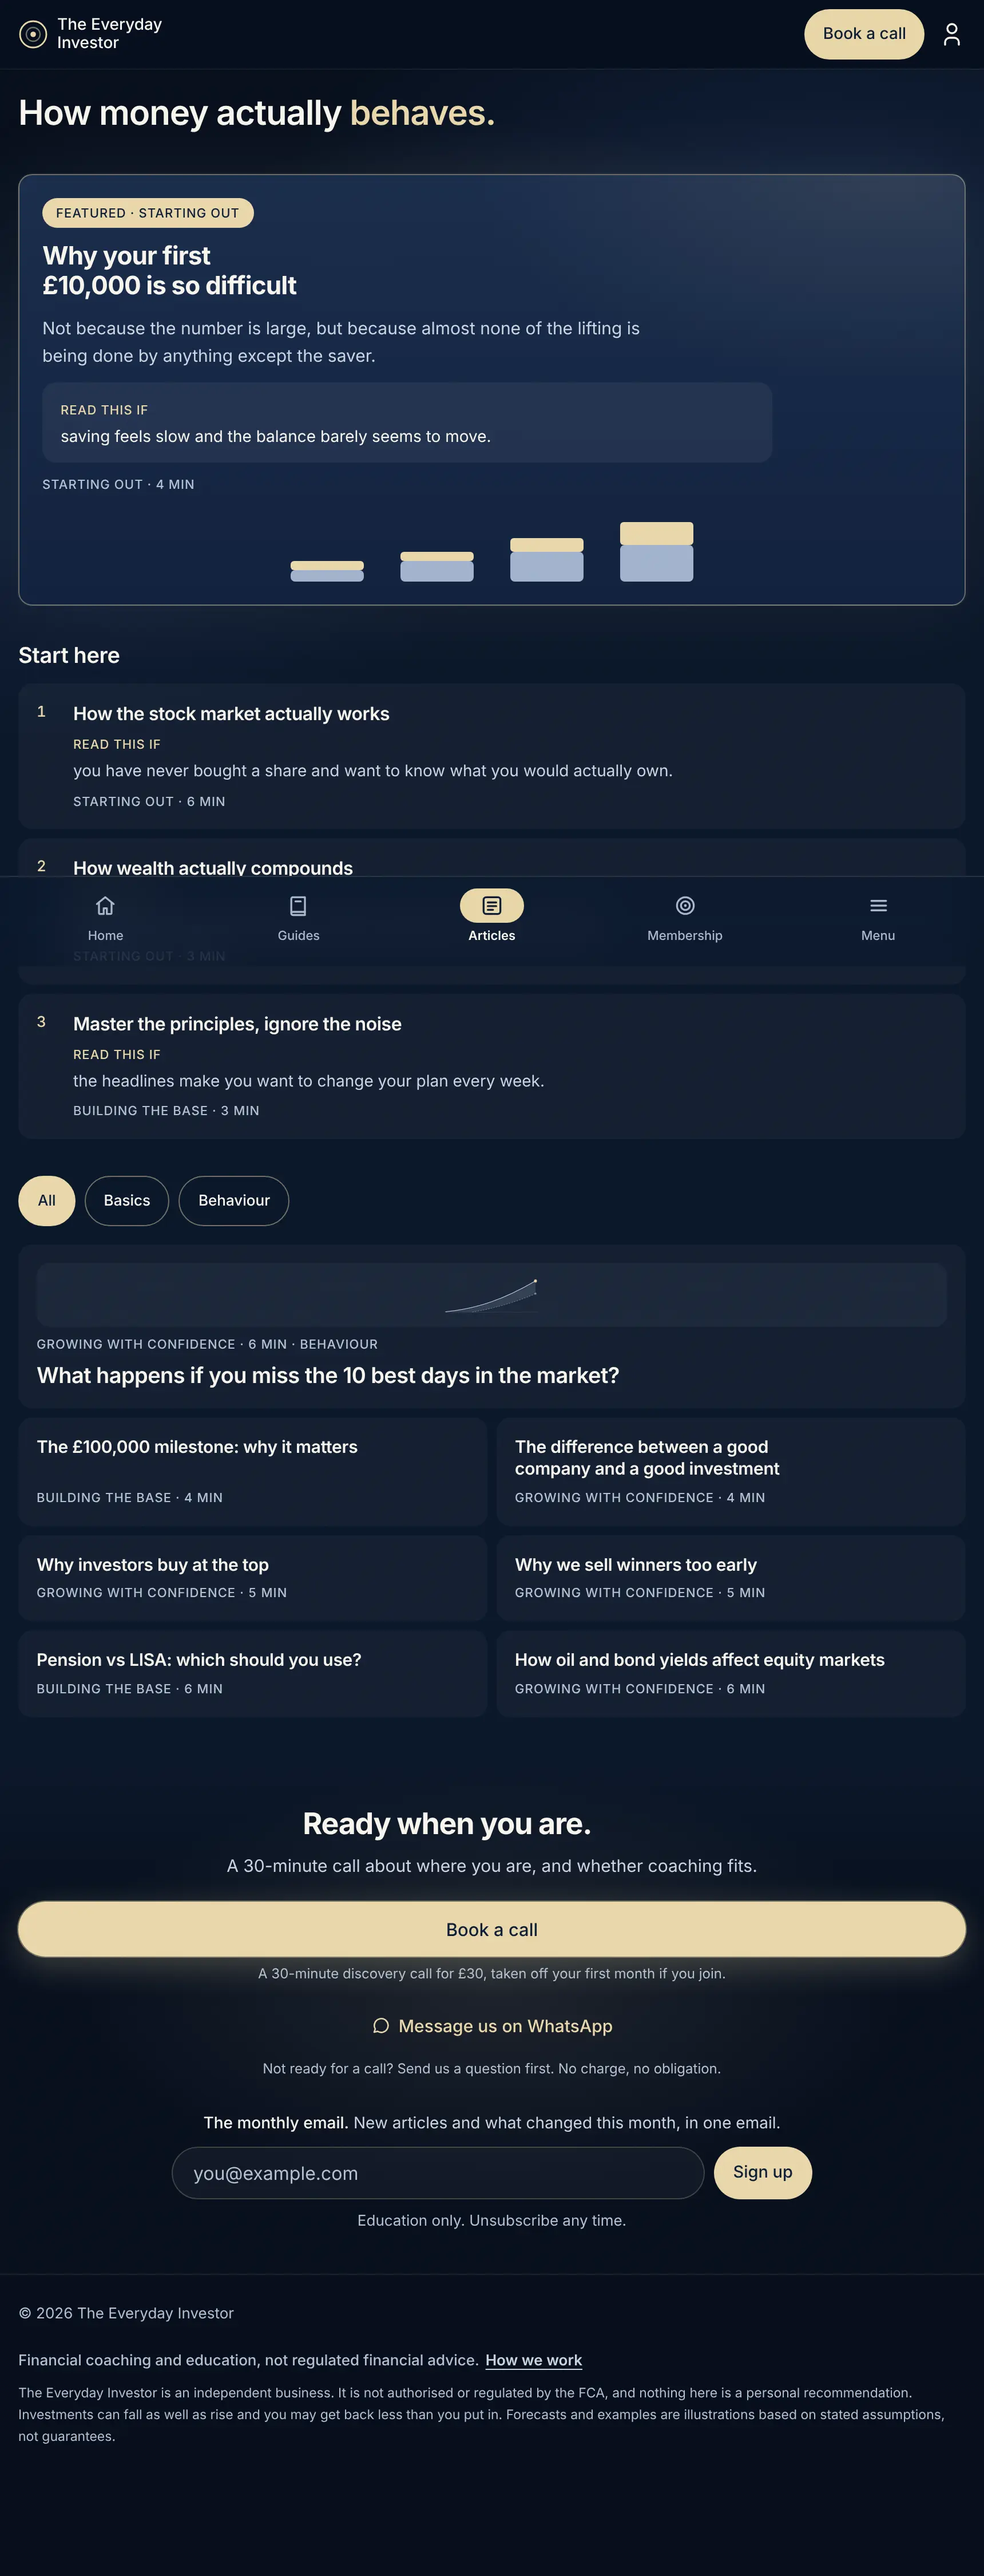
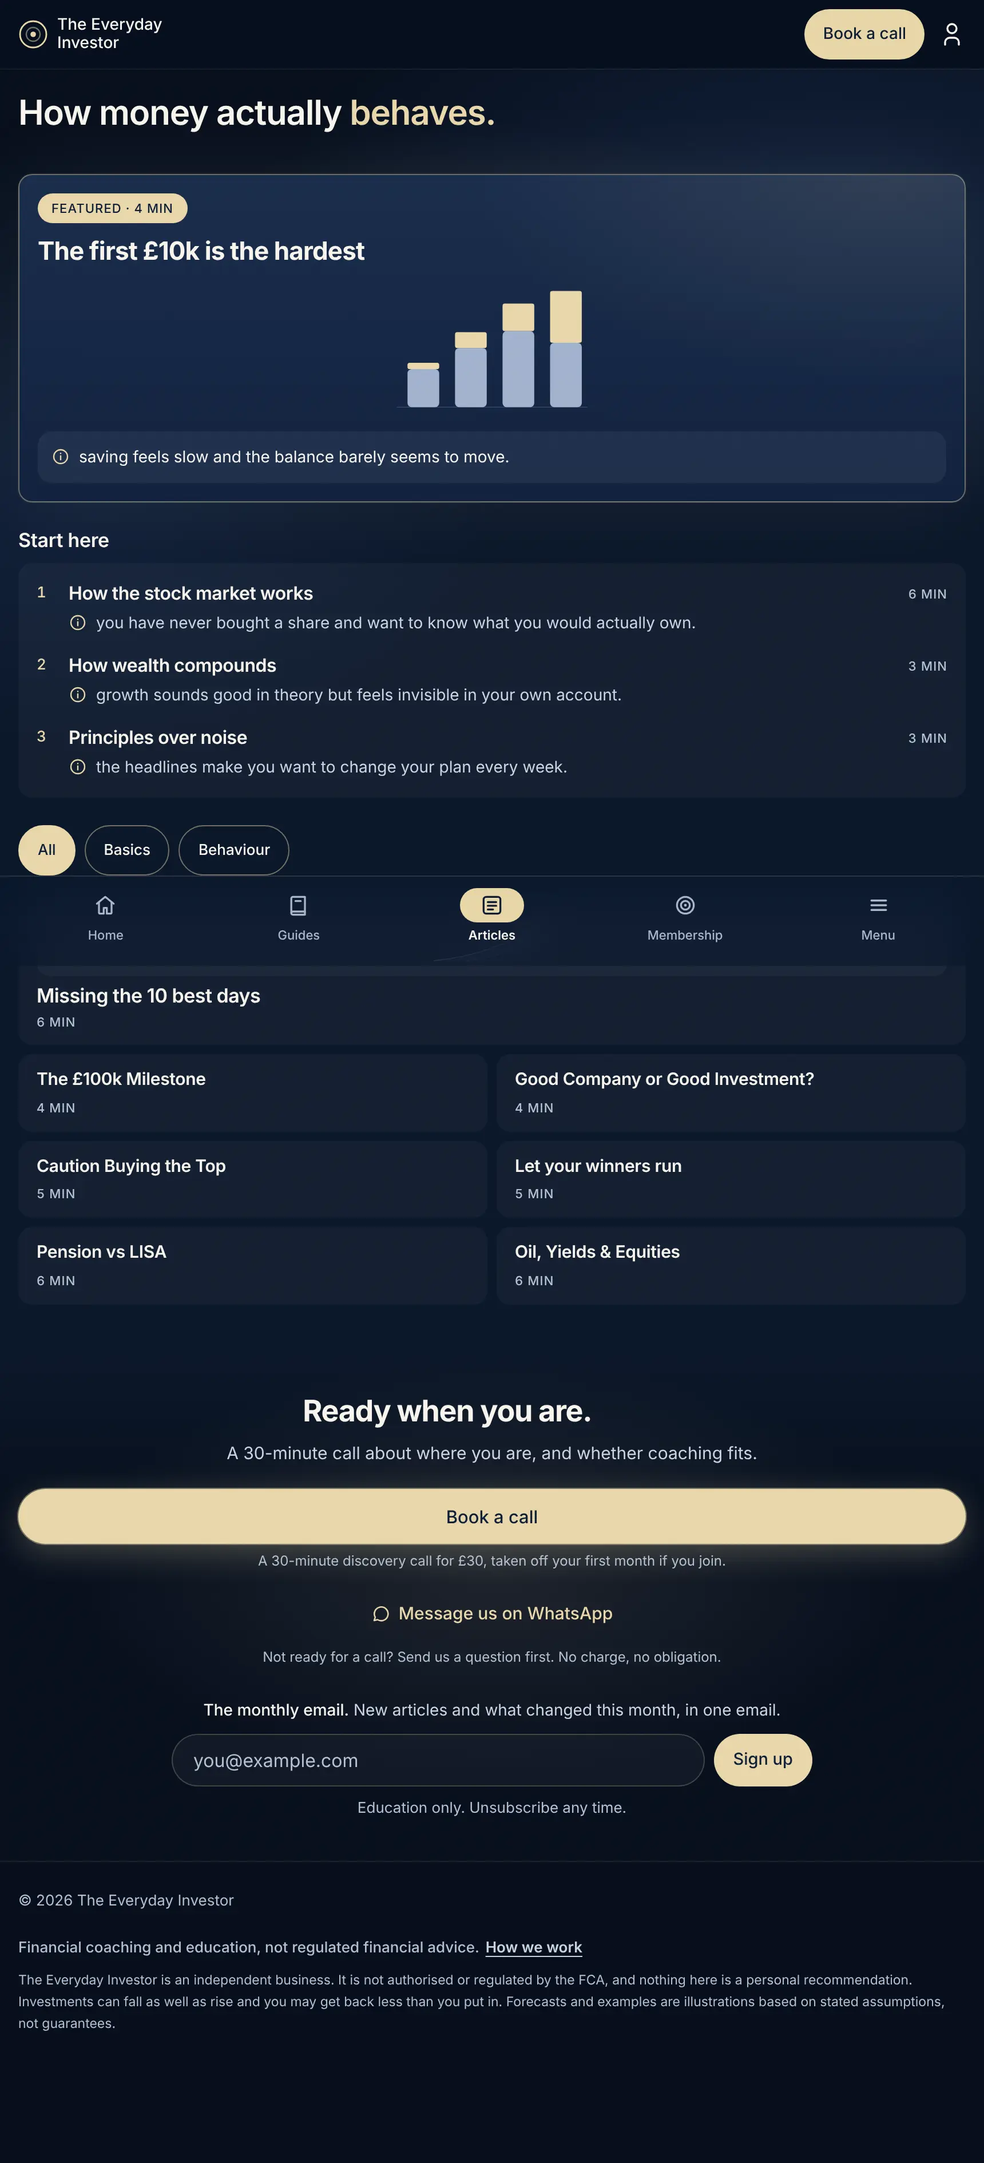
Articles, phones: quieter and tighter
- Featured card: chip with the read time, short title, the picture with
  room (120px), then Read this if; no teaser or stage line.
- Short titles on phones (shortTitle in articles.json, Paddy's wording);
  the full title stays in the link for screen readers.
- "Read this if" as an outline i on phones, everywhere it shows.
- No stage on phones: read time only.
- Start here: one tile of three numbered rows.
- Tighter gaps (24px between parts, 8px in the grid).
Desktop unchanged.

Claude-Session: https://claude.ai/code/session_015wx5SxX2gBEycz1xZd8Pnn

diff --git a/assets/site-pages.css b/assets/site-pages.css
@@ -218,6 +218,8 @@
 .al-k { margin: 0; font-family: var(--tei-num); font-size: 11px; font-weight: 500; line-height: 1.45; letter-spacing: .05em; text-transform: uppercase; font-variant-numeric: tabular-nums; color: var(--g-muted); }
 .al-k.is-champ { color: var(--g-champ); }
 .al-nw { white-space: nowrap; }
+/* Phone-only parts: the short title, the read time in the featured chip, the i */
+.al-ts, .al-ph, .al-i { display: none; }
 
 /* Pictures */
 .al-art {
@@ -256,7 +258,6 @@
 .al-feat-meta { margin-top: auto; padding-top: 4px; }
 .al-feat-art { min-height: 300px; }
 .al-feat-art .gt-svg { left: 32px; bottom: 32px; width: calc(100% - 64px); height: calc(100% - 64px); }
-.al-art-strip { display: none; }
 @media (hover: hover) { .al-feat:hover h2 { color: var(--g-champ); } }
 
 /* L2: Start here */
@@ -320,47 +321,57 @@
   .al-card.is-side > .al-art { display: none; }
 }
 
-/* Phones */
+/* Phones: quieter. Short titles, the read time only (no stage), "Read this
+   if" as an outline i, Start here as one tile of three rows, tighter gaps. */
 @media (max-width: 860px) {
-  .al-feat-body { padding: 20px; gap: 12px; }
-  .al-feat h2 { font-size: 22px; line-height: 1.2; }
-  .al-feat-teaser { font-size: 15px; line-height: 1.55; }
-  .al-ri p { font-size: 14px; }
-  .al-ri.is-tile { padding: 12px 16px; }
-  .al-feat-meta { padding-top: 0; }
-  /* The picture recomposed as a short strip under the text, not shrunk */
-  .al-feat-art { height: 56px; margin: 0 20px 20px; }
-  .al-art-big { display: none; }
-  .al-art-strip { display: block; }
-  .al-feat-art .gt-svg { left: 0; bottom: 0; width: 100%; height: 100%; }
+  .al-st { display: none; }
+  .al-ph, .al-ts { display: inline; }
+  .al-tf, .al-ri-k { position: absolute; width: 1px; height: 1px; overflow: hidden; clip: rect(0 0 0 0); white-space: nowrap; }
+  .al-ri { display: grid; grid-template-columns: 16px minmax(0, 1fr); column-gap: 8px; align-items: start; }
+  .al-i { display: block; width: 16px; height: 16px; margin-top: 2px; fill: none; stroke: var(--g-champ); stroke-width: 1.8; stroke-linecap: round; }
+  .al-ri p { margin: 0; font-size: 14px; line-height: 1.5; }
 
-  /* Start here: a numbered list */
-  .al-start { margin-top: 32px; }
-  .al-h { font-size: 19px; }
-  .al-start-list { margin-top: 12px; grid-template-columns: minmax(0, 1fr); gap: 8px; }
-  .al-start-card { display: grid; grid-template-columns: 20px minmax(0, 1fr); column-gap: 12px; row-gap: 4px; padding: 16px; border-radius: 12px; }
-  .al-start-card > * { grid-column: 2; }
-  .al-num { grid-column: 1; grid-row: 1 / span 3; font-size: 13px; line-height: 1.4; }
+  /* Featured: chip, title, the picture with room, then Read this if */
+  .al-feat { display: flex; flex-direction: column; gap: 12px; padding: 16px; }
+  .al-feat-body { display: contents; }
+  .al-feat-tag { order: 1; align-self: flex-start; }
+  .al-feat h2 { order: 2; font-size: 22px; line-height: 1.2; }
+  .al-feat-teaser, .al-feat-meta { display: none; }
+  .al-feat-art { order: 3; height: 120px; min-height: 0; }
+  .al-feat-art .gt-svg { left: 8px; bottom: 0; width: calc(100% - 16px); height: 100%; }
+  .al-feat .al-ri { order: 4; max-width: none; }
+  .al-ri.is-tile { padding: 12px; }
+
+  /* Start here: one tile, three numbered rows */
+  .al-start { margin-top: 24px; }
+  .al-h { font-size: 17px; }
+  .al-start-list { margin-top: 8px; grid-template-columns: minmax(0, 1fr); gap: 16px; padding: 16px; border-radius: 12px; background: var(--g-tile); }
+  .al-start-card { display: grid; grid-template-columns: 16px minmax(0, 1fr) auto; column-gap: 12px; row-gap: 4px; min-height: 44px; padding: 0; border-radius: 0; background: none; }
+  .al-num { grid-column: 1; grid-row: 1; font-size: 13px; line-height: 1.6; }
+  .al-start-card h3 { grid-column: 2; grid-row: 1; font-size: 16px; line-height: 1.35; }
+  .al-start-time { display: block; grid-column: 3; grid-row: 1; line-height: 2; }
+  .al-start-card .al-ri { grid-column: 2 / span 2; grid-row: 2; }
   .al-start-card .al-art, .al-start-meta, .al-arrow { display: none; }
-  .al-start-card h3 { font-size: 16px; line-height: 1.3; }
-  .al-start-time { display: block; margin-top: 4px; }
 
-  .al-list { margin-top: 32px; }
+  .al-list { margin-top: 24px; }
   /* One swipeable row of chips (the page itself never scrolls sideways) */
   .al-cats { flex-wrap: nowrap; overflow-x: auto; margin: 0 -16px; padding: 0 16px; scrollbar-width: none; -webkit-overflow-scrolling: touch; }
   .al-cats::-webkit-scrollbar { display: none; }
   .al-cat { flex: 0 0 auto; padding: 0 16px; font-size: 13px; }
   .al-filter-bar { display: block; }
-  .al-grid { margin-top: 16px; gap: 8px; }
-  .al-card { padding: 16px; gap: 8px; border-radius: 12px; min-height: 44px; }
+
+  /* Grid: two a row, the short title and the read time */
+  .al-grid { margin-top: 12px; gap: 8px; }
+  .al-card { padding: 12px 16px; gap: 4px; border-radius: 12px; min-height: 44px; }
   .al-card h3, .al-card.is-side h3 { font-size: 15px; line-height: 1.3; }
   .al-card .al-tag, .al-card .al-teaser, .al-card .al-ri, .al-card.is-side > .al-art { display: none; }
-  .al-card .al-meta { margin-top: auto; }
-  /* The lead: a thin picture strip, then the title and its line */
+  .al-card .al-meta { margin-top: auto; padding-top: 4px; }
+  /* The lead: a picture strip, the title, the read time */
   .al-card.is-lead { flex-direction: column; gap: 8px; }
-  .al-card.is-lead > .al-art { order: -1; flex: none; min-height: 0; height: 56px; }
-  .al-card.is-lead h3 { font-size: 19px; }
-  .al-lead-body { gap: 8px; }
+  .al-card.is-lead > .al-art { order: -1; flex: none; min-height: 0; height: 64px; }
+  .al-card.is-lead h3 { font-size: 17px; }
+  .al-lead-body { gap: 4px; }
+  .al-lead-body > .al-k { order: 2; }
 }
 
 /* =========================================================

diff --git a/articles.html b/articles.html
@@ -52,7 +52,7 @@
 <span class="al-feat-tag" data-al="tag"></span>
 <h2 data-al="title"></h2>
 <p class="al-feat-teaser" data-al="teaser"></p>
-<div class="al-ri is-tile"><span class="al-k is-champ">Read this if</span><p data-al="readif"></p></div>
+<div class="al-ri is-tile"><svg class="al-i" viewBox="0 0 24 24" aria-hidden="true" focusable="false"><circle cx="12" cy="12" r="9"></circle><path d="M12 11v5"></path><path d="M12 7.6v.2"></path></svg><span class="al-k is-champ al-ri-k">Read this if</span><p data-al="readif"></p></div>
 <p class="al-feat-meta al-k" data-al="meta"></p>
 </div>
 <div class="al-feat-art al-art is-bare" aria-hidden="true" data-al="art"></div>
@@ -141,15 +141,22 @@
   var esc = T.escapeHtml;
 
   function mins(a) { return a.readTime + ' min'; }
-  function meta(a) { return esc(a.stage) + ' &middot; <span class="al-nw">' + esc(mins(a)) + '</span>'; }
+  // The stage drops on phones (.al-st); the read time stays.
+  function meta(a) { return '<span class="al-st">' + esc(a.stage) + ' &middot; </span><span class="al-nw">' + esc(mins(a)) + '</span>'; }
+  // The short title shows on phones; the full title stays for screen readers.
+  function title(a) {
+    if (!a.shortTitle) return esc(a.title);
+    return '<span class="al-tf">' + esc(a.title) + '</span><span class="al-ts" aria-hidden="true">' + esc(a.shortTitle) + '</span>';
+  }
   function readIf(a) { return esc(String(a.readIf || '').replace(/^Read this if\s+/i, '')); }
-  function ri(a) { return a.readIf ? '<div class="al-ri"><span class="al-k is-champ">Read this if</span><p>' + readIf(a) + '</p></div>' : ''; }
+  // "Read this if": a label on desktop, an outline i on phones.
+  var INFO = '<svg class="al-i" viewBox="0 0 24 24" aria-hidden="true" focusable="false"><circle cx="12" cy="12" r="9"></circle><path d="M12 11v5"></path><path d="M12 7.6v.2"></path></svg>';
+  function ri(a) { return a.readIf ? '<div class="al-ri">' + INFO + '<span class="al-k is-champ al-ri-k">Read this if</span><p>' + readIf(a) + '</p></div>' : ''; }
   function art(a, big) {
     if (!A) return '';
-    if (a.art === 'bars') return A.stack(false);
+    if (a.art === 'bars') return A.stack();
     return A.ART[a.art] ? A.ART[a.art](big) : '';
   }
-  function strip(a) { return A && a.art === 'bars' ? A.stack(true) : art(a, true); }
 
   /* Widths. From 1100px: the lead at 8 beside one card at 4, then rows of
      three; a remainder of two closes on 6 + 6, a remainder of one on two
@@ -177,16 +184,16 @@
     var at = ' data-w="' + w + '" data-n="' + n + '" href="' + T.urlFor(a) + '"';
     if (i === 0) {
       return '<a class="al-card is-lead"' + at + '><div class="al-lead-body">' +
-        '<p class="al-k">' + meta(a) + ' &middot; ' + esc(a.category) + '</p>' +
-        '<h3>' + esc(a.title) + '</h3><p class="al-teaser">' + esc(a.teaser) + '</p>' + ri(a) + '</div>' +
+        '<p class="al-k">' + meta(a) + '<span class="al-st"> &middot; ' + esc(a.category) + '</span></p>' +
+        '<h3>' + title(a) + '</h3><p class="al-teaser">' + esc(a.teaser) + '</p>' + ri(a) + '</div>' +
         '<div class="al-art" aria-hidden="true">' + art(a, true) + '</div></a>';
     }
     if (i === 1 && w === 4) {
       return '<a class="al-card is-side"' + at + '><div class="al-art" aria-hidden="true">' + art(a, false) + '</div>' +
-        '<h3>' + esc(a.title) + '</h3>' + ri(a) + '<p class="al-k al-meta">' + meta(a) + '</p></a>';
+        '<h3>' + title(a) + '</h3>' + ri(a) + '<p class="al-k al-meta">' + meta(a) + '</p></a>';
     }
     return '<a class="al-card"' + at + '><p class="al-k is-champ al-tag">' + esc(a.category) + '</p>' +
-      '<h3>' + esc(a.title) + '</h3><p class="al-teaser">' + esc(a.teaser) + '</p>' +
+      '<h3>' + title(a) + '</h3><p class="al-teaser">' + esc(a.teaser) + '</p>' +
       '<p class="al-k al-meta">' + meta(a) + '</p></a>';
   }
 
@@ -226,12 +233,12 @@
 
   function drawFeatured() {
     feat.href = T.urlFor(featured);
-    feat.querySelector('[data-al="tag"]').innerHTML = 'Featured &middot; ' + esc(featured.stage);
-    feat.querySelector('[data-al="title"]').textContent = featured.title;
+    feat.querySelector('[data-al="tag"]').innerHTML = 'Featured<span class="al-st"> &middot; ' + esc(featured.stage) + '</span><span class="al-ph"> &middot; ' + esc(mins(featured)) + '</span>';
+    feat.querySelector('[data-al="title"]').innerHTML = title(featured);
     feat.querySelector('[data-al="teaser"]').textContent = featured.teaser;
     feat.querySelector('[data-al="readif"]').innerHTML = readIf(featured);
     feat.querySelector('[data-al="meta"]').innerHTML = meta(featured);
-    feat.querySelector('[data-al="art"]').innerHTML = '<span class="al-art-big">' + art(featured, true) + '</span><span class="al-art-strip">' + strip(featured) + '</span>';
+    feat.querySelector('[data-al="art"]').innerHTML = art(featured, true);
   }
 
   function drawStart(list) {
@@ -240,7 +247,7 @@
         '<span class="al-num" aria-hidden="true">' + a.startHere + '</span>' +
         '<div class="al-art" aria-hidden="true">' + art(a, false) + '</div>' +
         '<p class="al-k al-start-meta">' + meta(a) + '</p>' +
-        '<h3>' + esc(a.title) + '</h3>' + ri(a) +
+        '<h3>' + title(a) + '</h3>' + ri(a) +
         '<p class="al-k al-start-time">' + meta(a) + '</p>' + ARROW + '</a></li>';
     }).join('');
   }

diff --git a/assets/tei-art.js b/assets/tei-art.js
@@ -9,9 +9,8 @@
 
      TeiArt.ART[name](big)  the picture's markup; big is the wider version
                             for a featured card (lines only)
-     TeiArt.stack(strip)    the stacked bars of "Why your first £10,000 is so
-                            difficult"; strip is the same picture recomposed
-                            for a short, wide strip on phones */
+     TeiArt.stack()         the stacked bars of "Why your first £10,000 is so
+                            difficult" */
 (function (root) {
   'use strict';
 
@@ -70,18 +69,9 @@
     }
   };
 
-  function stack(strip) {
+  function stack() {
     // Four bars, each growing taller, with a champagne cap that grows faster:
     // the saver's money, then the growth on top.
-    if (strip) {
-      var out = '<svg class="gt-svg" viewBox="0 0 400 56" preserveAspectRatio="xMidYMax meet" focusable="false">';
-      [[10, 18], [18, 26], [26, 38], [32, 52]].forEach(function (h, i) {
-        var x = 24 + i * 96, base = 56 - h[0], cap = h[1] - h[0];
-        out += '<rect class="f-main o85" x="' + x + '" y="' + base + '" width="64" height="' + h[0] + '" rx="4"/>' +
-          '<rect class="f-acc" x="' + x + '" y="' + (base - cap) + '" width="64" height="' + cap + '" rx="3"/>';
-      });
-      return out + '</svg>';
-    }
     return '<svg class="gt-svg" viewBox="0 0 400 260" preserveAspectRatio="xMidYMax meet" focusable="false">' +
       '<line class="s-pale" x1="20" y1="240" x2="380" y2="240"/>' +
       '<rect class="f-main o85" x="40" y="168" width="60" height="72" rx="8"/><rect class="f-acc" x="40" y="156" width="60" height="12" rx="4"/>' +
